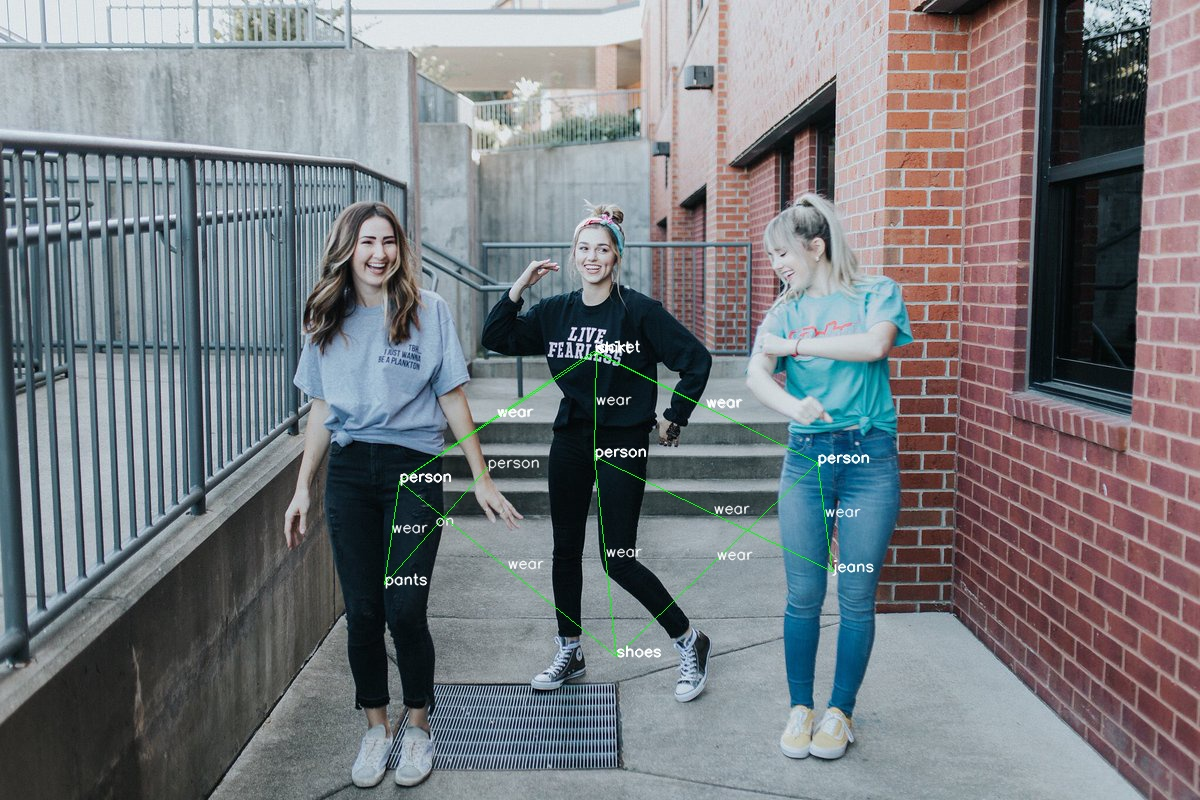
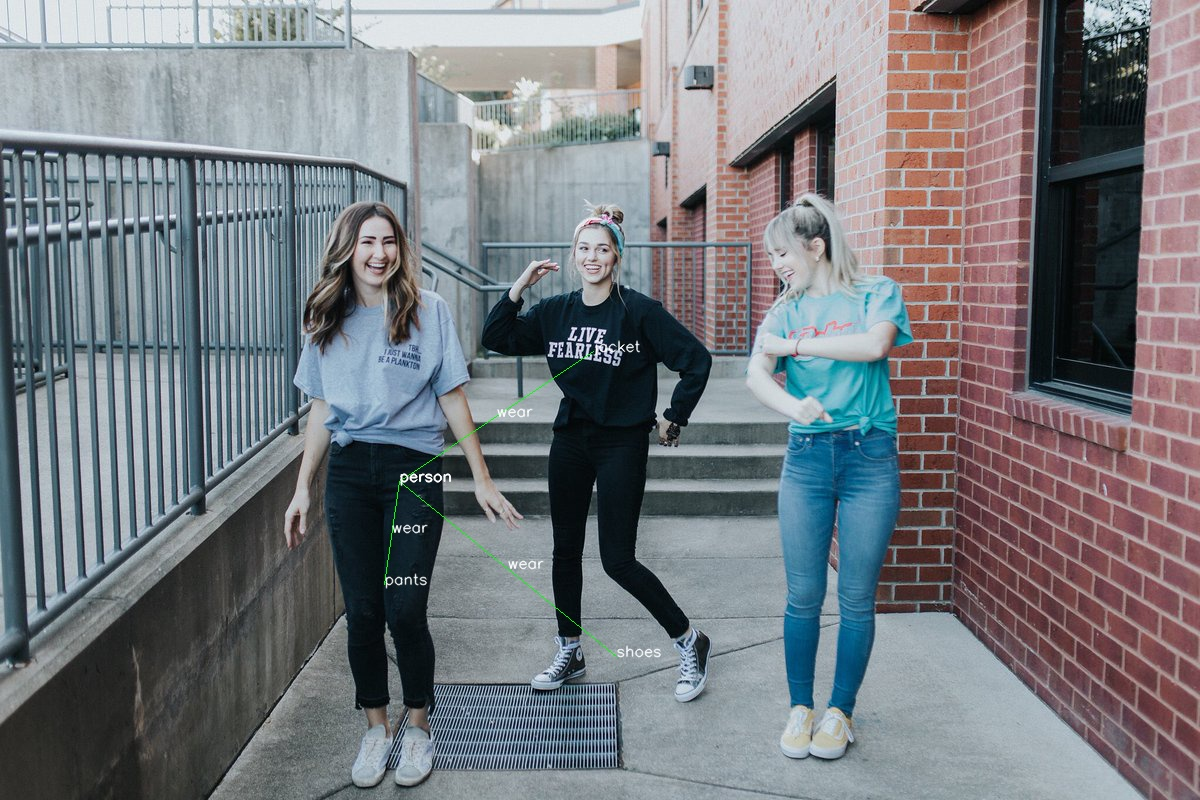
updated

diff --git a/predict.py b/predict.py
@@ -159,7 +159,7 @@ def main():
 
 			# apply mask for thresholding
 			# mask = scores > 0.2
-			mask = scores > 0.1
+			mask = scores > 0.5
 			preds = preds[mask]
 			scores = scores[mask]
 
